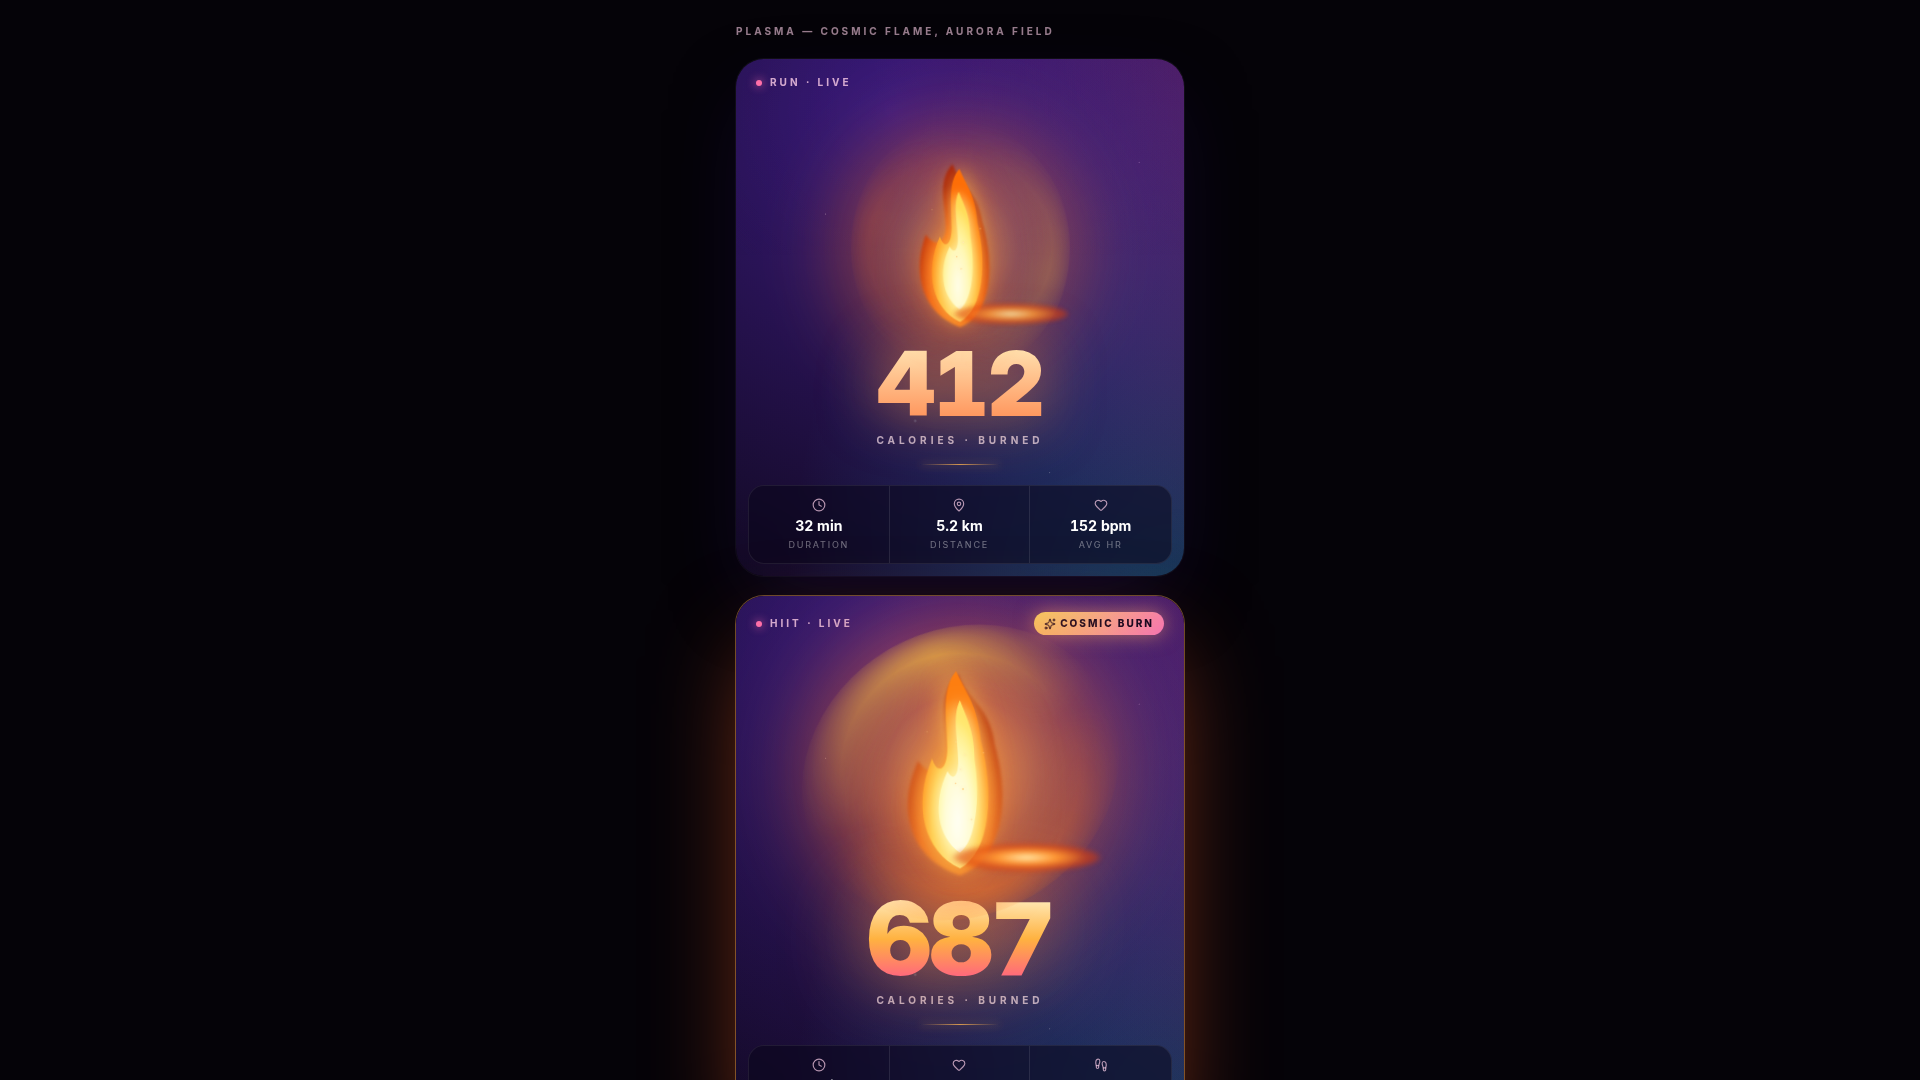
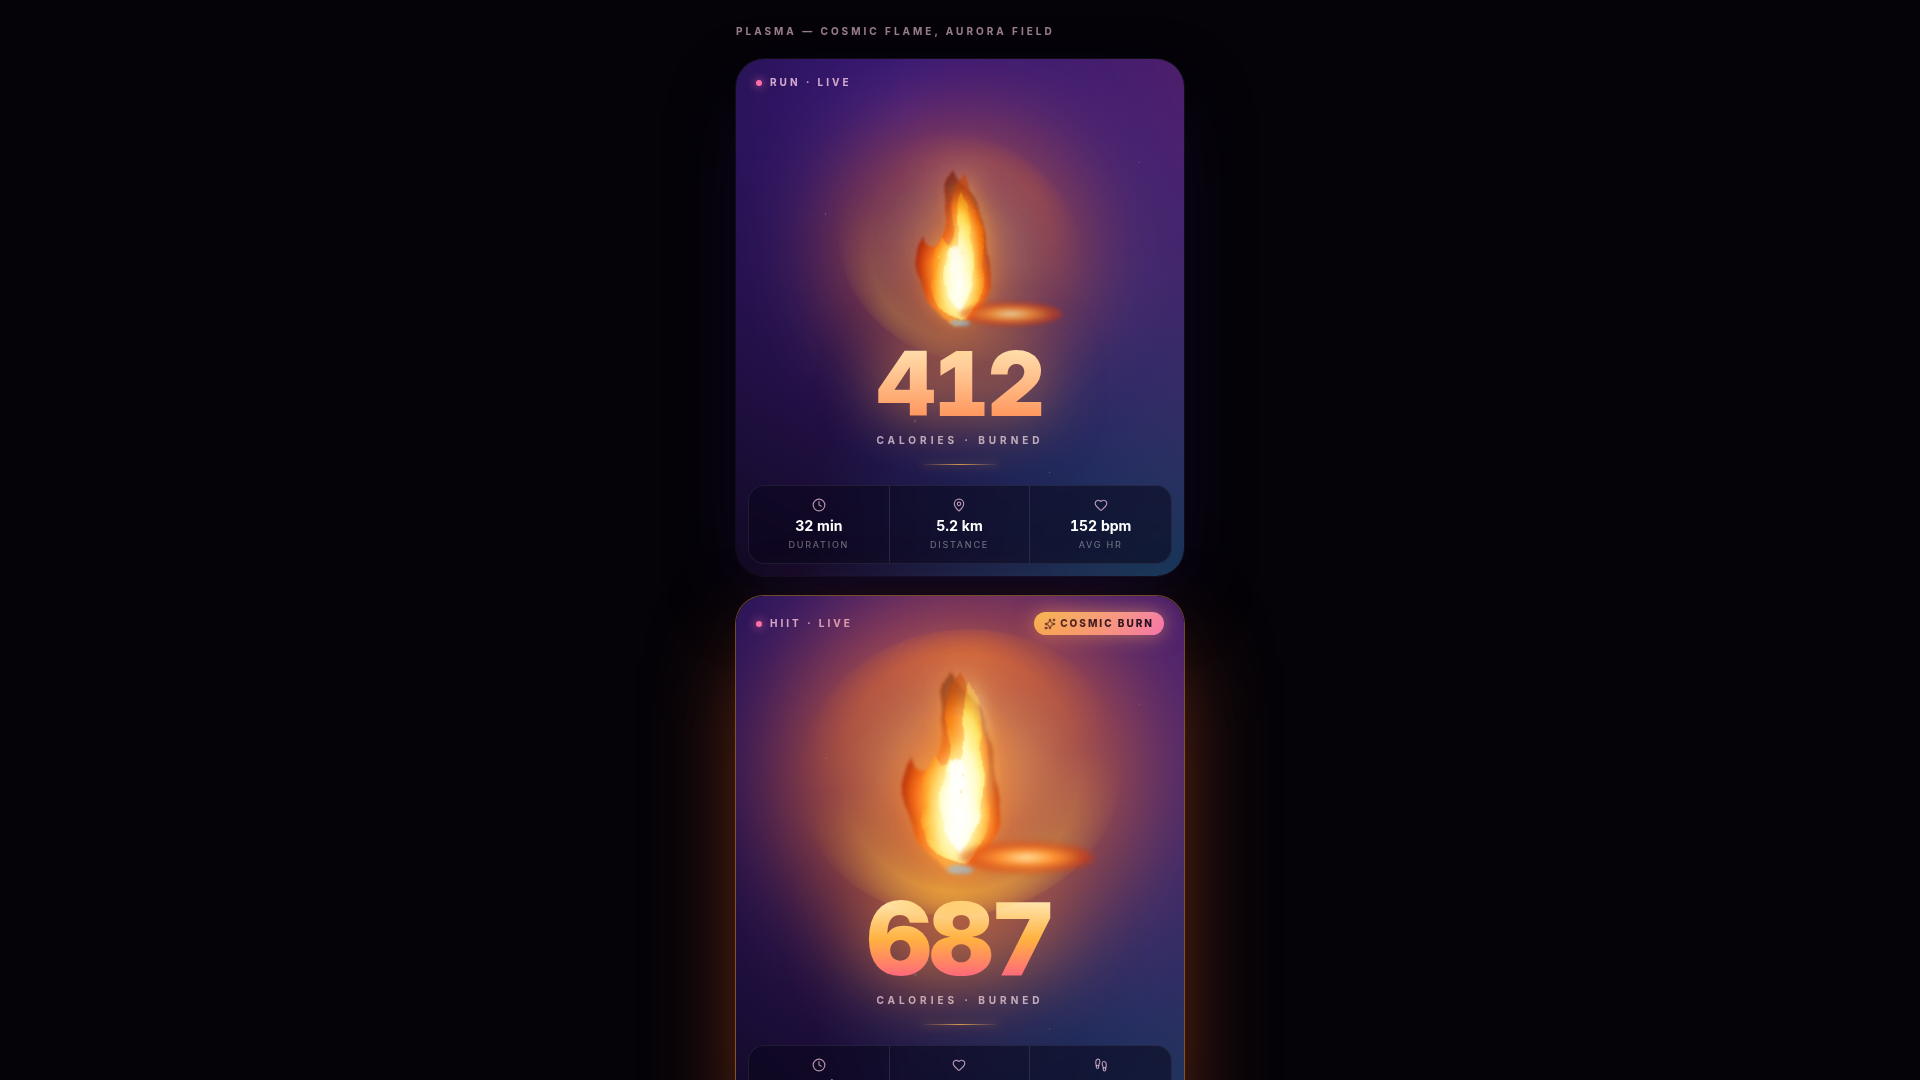
Improve flame visuals to be more 3D and photorealistic
Introduce SVG filters for dynamic flame warping, enhanced color gradients, and heat shimmer effects to create a more realistic and dimensional flame appearance.

Replit-Commit-Author: Agent
Replit-Commit-Session-Id: ebdcd18e-5cbb-4f8c-bdb8-f7f3cfcb31a1
Replit-Commit-Checkpoint-Type: full_checkpoint
Replit-Commit-Event-Id: 3739144c-6f43-4d2f-9039-6c4e80ef3750
Replit-Commit-Screenshot-Url: https://storage.googleapis.com/screenshot-production-us-central1/98486641-5e4c-4068-bb02-76442c3051c6/ebdcd18e-5cbb-4f8c-bdb8-f7f3cfcb31a1/8jfZt0N
Replit-Helium-Checkpoint-Created: true

Changed region(s): [[0.375, 0.55, 0.625, 0.8861], [0.4688, 0.1528, 0.5312, 0.2444], [0.4375, 0.275, 0.5, 0.3056]]

diff --git a/artifacts/mockup-sandbox/src/components/mockups/workout-cards/shared.tsx b/artifacts/mockup-sandbox/src/components/mockups/workout-cards/shared.tsx
@@ -1,4 +1,5 @@
 import "./_group.css";
+import { useId } from "react";
 import { Flame } from "lucide-react";
 
 export interface ParsedWorkout {
@@ -41,64 +42,183 @@ export function clampIntensity(workoutCals: number, top: number, leader?: boolea
   return Math.max(0.2, Math.min(1, r));
 }
 
-/* ===== Realistic flame =====
- *  Three independently-flickering SVG flame tongues + a pulsing ember bed,
- *  a soft glow halo, and a continuous spark stream. Each layer has its own
- *  color, shape and timing so the whole thing reads as actual fire. */
+/* ===== Photorealistic 3D flame =====
+ *  Built from three SVG flame tongues, each warped in real-time by an
+ *  animated `feTurbulence` + `feDisplacementMap` filter so the silhouette
+ *  organically morphs (instead of just scaling). Adds a darker
+ *  pre-combustion fuel pocket near the wick, a tiny blue base where
+ *  fuel meets oxygen, and a specular highlight on the molten core for a
+ *  3D "wet glow" feel. */
 
-/** A single flame-tongue path. The shapes are tuned to feel organic — wider
- *  ember-base, narrowing tip, with a small kink/lick on one shoulder. */
+interface TonguePalette {
+  /** Multi-stop radial gradient (cy near bottom). */
+  stops: { o: number; c: string; a?: number }[];
+  /** SVG path. */
+  d: string;
+  /** Displacement amplitude — how much the edges wobble. */
+  disp: number;
+  /** Turbulence frequency — higher = finer noise. */
+  freq: string;
+  /** Animation duration of the seed sweep. */
+  dur: string;
+  /** Octaves of fractal noise. */
+  octaves: number;
+}
+
+/** A single flame-tongue, warped by an animated turbulence filter. */
 function FlameTongue({
   variant,
   intensity,
+  idPrefix,
 }: {
   variant: "outer" | "mid" | "core";
   intensity: number;
+  idPrefix: string;
 }) {
-  // Color stops by layer (hot core gets nearly white; outer is deep red).
-  const palettes = {
+  // Photometric color stops. 5 stops give a smoother, more volumetric falloff
+  // than a hard 3-stop ramp. Hot center → cooler shoulders → dim deep red base.
+  const palettes: Record<"outer" | "mid" | "core", TonguePalette> = {
     outer: {
-      gradId: `ff-g-out-${intensity.toFixed(2)}`,
       stops: [
-        { o: 0,   c: `hsl(${28 + intensity * 8}, 100%, ${55 + intensity * 8}%)` },
-        { o: 0.55,c: `hsl(${18 + intensity * 5}, 95%,  ${48 + intensity * 6}%)` },
-        { o: 1,   c: `hsl(${5  + intensity * 5}, 95%,  ${30 + intensity * 5}%)` },
+        { o: 0,    c: `hsl(${36 + intensity * 6}, 100%, ${62 + intensity * 8}%)`, a: 0.95 },
+        { o: 0.30, c: `hsl(${24 + intensity * 6}, 100%, ${55 + intensity * 6}%)`, a: 0.95 },
+        { o: 0.55, c: `hsl(${14 + intensity * 5}, 95%,  ${44 + intensity * 6}%)`, a: 0.92 },
+        { o: 0.80, c: `hsl(${4  + intensity * 4}, 92%,  ${30 + intensity * 5}%)`, a: 0.85 },
+        { o: 1,    c: `hsl(${0  + intensity * 4}, 90%,  ${18 + intensity * 4}%)`, a: 0.7  },
       ],
-      // Big, full envelope.
       d: "M32 78 C 14 72, 8 54, 16 36 C 20 42, 26 40, 26 32 C 26 22, 22 12, 30 4 C 34 14, 42 16, 44 30 C 50 50, 48 72, 32 78 Z",
+      disp: 7 + intensity * 4,
+      freq: "0.018 0.045",
+      dur: "9s",
+      octaves: 2,
     },
     mid: {
-      gradId: `ff-g-mid-${intensity.toFixed(2)}`,
       stops: [
-        { o: 0,   c: `hsl(${48 + intensity * 8}, 100%, ${72 + intensity * 12}%)` },
-        { o: 0.55,c: `hsl(${36 + intensity * 8}, 100%, ${58 + intensity * 8}%)` },
-        { o: 1,   c: `hsl(${22 + intensity * 6}, 100%, ${48 + intensity * 5}%)` },
+        { o: 0,    c: `hsl(${56 + intensity * 6}, 100%, ${80 + intensity * 10}%)`, a: 1 },
+        { o: 0.30, c: `hsl(${46 + intensity * 6}, 100%, ${68 + intensity * 10}%)`, a: 1 },
+        { o: 0.55, c: `hsl(${36 + intensity * 6}, 100%, ${56 + intensity * 8}%)`,  a: 0.95 },
+        { o: 0.80, c: `hsl(${24 + intensity * 5}, 100%, ${46 + intensity * 6}%)`,  a: 0.85 },
+        { o: 1,    c: `hsl(${14 + intensity * 4}, 95%,  ${36 + intensity * 4}%)`,  a: 0.6  },
       ],
-      // Slightly narrower with a leftward lick.
       d: "M32 76 C 18 70, 14 54, 22 38 C 24 44, 28 42, 28 34 C 28 24, 26 14, 32 8 C 36 16, 40 20, 41 32 C 46 50, 44 70, 32 76 Z",
+      disp: 4 + intensity * 3,
+      freq: "0.028 0.07",
+      dur: "5.5s",
+      octaves: 2,
     },
     core: {
-      gradId: `ff-g-core-${intensity.toFixed(2)}`,
       stops: [
-        { o: 0,   c: `hsl(56, 100%, ${88 + intensity * 8}%)` },
-        { o: 0.5, c: `hsl(${50 + intensity * 6}, 100%, ${75 + intensity * 12}%)` },
-        { o: 1,   c: `hsl(${36 + intensity * 8}, 100%, ${60 + intensity * 8}%)` },
+        { o: 0,    c: `hsl(58, 100%, ${94 + intensity * 6}%)`, a: 1 },
+        { o: 0.25, c: `hsl(56, 100%, ${88 + intensity * 8}%)`, a: 1 },
+        { o: 0.55, c: `hsl(${50 + intensity * 4}, 100%, ${76 + intensity * 10}%)`, a: 0.97 },
+        { o: 0.85, c: `hsl(${40 + intensity * 6}, 100%, ${62 + intensity * 6}%)`,  a: 0.85 },
+        { o: 1,    c: `hsl(${30 + intensity * 6}, 100%, ${50 + intensity * 4}%)`,  a: 0.5  },
       ],
-      // Small, narrow, taller tongue.
       d: "M32 70 C 24 64, 22 52, 28 40 C 30 44, 32 42, 32 36 C 32 28, 30 20, 33 14 C 36 22, 38 26, 38 36 C 40 50, 38 66, 32 70 Z",
+      disp: 2 + intensity * 2,
+      freq: "0.04 0.09",
+      dur: "3.5s",
+      octaves: 2,
     },
   };
   const p = palettes[variant];
+  const gradId   = `${idPrefix}-grad-${variant}`;
+  const filterId = `${idPrefix}-fil-${variant}`;
+  const seedStart = variant === "outer" ? 1 : variant === "mid" ? 7 : 13;
+
   return (
-    <svg width="100%" height="100%" viewBox="0 0 64 80" fill="none" preserveAspectRatio="xMidYMax meet">
+    <svg
+      width="100%"
+      height="100%"
+      viewBox="0 0 64 80"
+      fill="none"
+      preserveAspectRatio="xMidYMax meet"
+    >
       <defs>
-        <radialGradient id={p.gradId} cx="50%" cy="78%" r="65%">
+        {/* Animated turbulence + displacement → organic edge bubbling.
+            The seed sweeps continuously so the noise pattern evolves
+            instead of looping crisply. */}
+        <filter id={filterId} x="-25%" y="-25%" width="150%" height="150%">
+          <feTurbulence
+            type="fractalNoise"
+            baseFrequency={p.freq}
+            numOctaves={p.octaves}
+            seed={seedStart}
+            result="noise"
+          >
+            <animate
+              attributeName="seed"
+              from={seedStart}
+              to={seedStart + 90}
+              dur={p.dur}
+              repeatCount="indefinite"
+            />
+          </feTurbulence>
+          <feDisplacementMap
+            in="SourceGraphic"
+            in2="noise"
+            scale={p.disp}
+            xChannelSelector="R"
+            yChannelSelector="G"
+          />
+        </filter>
+
+        <radialGradient id={gradId} cx="50%" cy="78%" r="68%">
           {p.stops.map((s, i) => (
-            <stop key={i} offset={`${s.o * 100}%`} stopColor={s.c} />
+            <stop
+              key={i}
+              offset={`${s.o * 100}%`}
+              stopColor={s.c}
+              stopOpacity={s.a ?? 1}
+            />
           ))}
         </radialGradient>
       </defs>
-      <path d={p.d} fill={`url(#${p.gradId})`} />
+
+      <g filter={`url(#${filterId})`}>
+        <path d={p.d} fill={`url(#${gradId})`} />
+
+        {/* Specular highlight on the hot core — fakes 3D molten depth.
+            Lives inside the displaced group so it warps with the flame. */}
+        {variant === "core" && (
+          <ellipse
+            cx="30"
+            cy="46"
+            rx="2.6"
+            ry="6"
+            fill="white"
+            opacity={0.45 + intensity * 0.35}
+          />
+        )}
+
+        {/* Pre-combustion "fuel pocket" — slightly darker zone in the lower
+            interior of the outer envelope, the way real torch flames have a
+            shadow above the wick. */}
+        {variant === "outer" && (
+          <ellipse
+            cx="32"
+            cy="62"
+            rx="6"
+            ry="9"
+            fill="black"
+            opacity={0.18 + intensity * 0.1}
+          />
+        )}
+      </g>
+
+      {/* Tiny cool-blue accent at the very wick where fuel meets oxygen.
+          Rendered OUTSIDE the displacement filter so it stays anchored. */}
+      {variant === "outer" && (
+        <ellipse
+          cx="32"
+          cy="76"
+          rx="5"
+          ry="1.6"
+          fill={`hsl(${200 + intensity * 10}, 95%, ${65 + intensity * 10}%)`}
+          opacity={0.55 + intensity * 0.25}
+          style={{ filter: "blur(0.6px)" }}
+        />
+      )}
     </svg>
   );
 }
@@ -124,6 +244,10 @@ export function AnimatedFlame({
   // Render at a 4:5 aspect so the flame has natural vertical proportion.
   const w = size;
   const h = Math.round(size * 1.15);
+  // Stable per-instance ID prefix so each flame's filters/gradients don't
+  // collide across cards on the same page.
+  const rawId = useId();
+  const idPrefix = `ff${rawId.replace(/[^a-zA-Z0-9]/g, "")}`;
 
   // Spawn 6 sparks + 4 embers with varied lateral drift and delay so the
   // stream feels random rather than periodic.
@@ -154,14 +278,18 @@ export function AnimatedFlame({
       <span className="ff-ember-base" />
 
       <span className="ff-flame-layer ff-flame-outer">
-        <FlameTongue variant="outer" intensity={intensity} />
+        <FlameTongue variant="outer" intensity={intensity} idPrefix={idPrefix} />
       </span>
       <span className="ff-flame-layer ff-flame-mid">
-        <FlameTongue variant="mid" intensity={intensity} />
+        <FlameTongue variant="mid" intensity={intensity} idPrefix={idPrefix} />
       </span>
       <span className="ff-flame-layer ff-flame-core">
-        <FlameTongue variant="core" intensity={intensity} />
+        <FlameTongue variant="core" intensity={intensity} idPrefix={idPrefix} />
       </span>
+
+      {/* Heat shimmer band that floats above the flame tip — fakes the
+          refractive air-distortion you see above real fire. */}
+      <span className="ff-heat-shimmer" />
 
       {showSparks && intensity > 0.35 && sparks.map((s, i) => (
         <span
@@ -190,7 +318,7 @@ export function AnimatedFlame({
 }
 
 /** Back-compat re-export so other files that still call FlameSvg directly
- *  keep working — renders the mid tongue as a static SVG. */
+ *  keep working — renders the mid tongue as a single warped SVG. */
 export function FlameSvg({
   size = 48,
   intensity = 0.5,
@@ -199,9 +327,11 @@ export function FlameSvg({
   intensity?: number;
   variant?: "front" | "back";
 }) {
+  const rawId = useId();
+  const idPrefix = `ff${rawId.replace(/[^a-zA-Z0-9]/g, "")}`;
   return (
     <span style={{ display: "inline-block", width: size, height: size }}>
-      <FlameTongue variant="mid" intensity={intensity} />
+      <FlameTongue variant="mid" intensity={intensity} idPrefix={idPrefix} />
     </span>
   );
 }

diff --git a/artifacts/mockup-sandbox/src/components/mockups/workout-cards/_group.css b/artifacts/mockup-sandbox/src/components/mockups/workout-cards/_group.css
@@ -106,6 +106,15 @@
   to { transform: rotate(360deg); }
 }
 
+/* Heat shimmer — a soft warm band that floats above the flame tip and
+   subtly skews/translates to mimic the air-distortion seen above real fire. */
+@keyframes ff-heat-shimmer {
+  0%, 100% { transform: translate(-50%, 0)    skewX(-3deg); opacity: .25; }
+  25%      { transform: translate(-48%, -2px) skewX( 4deg); opacity: .45; }
+  50%      { transform: translate(-52%, -4px) skewX(-5deg); opacity: .35; }
+  75%      { transform: translate(-49%, -2px) skewX( 3deg); opacity: .5;  }
+}
+
 @keyframes ff-scanline {
   0%   { transform: translateY(-100%); opacity: 0; }
   20%  { opacity: 0.6; }
@@ -178,6 +187,26 @@
   filter: blur(calc(1px + var(--ff-intensity, 0.5) * 2px));
   animation: ff-ember-pulse calc(.9s - var(--ff-intensity, 0.5) * 0.3s) ease-in-out infinite;
   z-index: 5;
+}
+
+/* Heat shimmer band — sits above the flame tip, slightly warm-tinted, blurry. */
+.ff-heat-shimmer {
+  position: absolute;
+  left: 50%;
+  top: -8%;
+  transform: translateX(-50%);
+  width: 55%;
+  height: 28%;
+  border-radius: 50%;
+  pointer-events: none;
+  background: radial-gradient(ellipse at center,
+    rgba(255, 200, 120, calc(0.18 + var(--ff-intensity, 0.5) * 0.18)) 0%,
+    rgba(255, 150, 70,  calc(0.10 + var(--ff-intensity, 0.5) * 0.12)) 50%,
+    transparent 80%);
+  filter: blur(calc(6px + var(--ff-intensity, 0.5) * 8px));
+  mix-blend-mode: screen;
+  animation: ff-heat-shimmer calc(2.2s - var(--ff-intensity, 0.5) * 0.6s) ease-in-out infinite;
+  z-index: 7;
 }
 
 .ff-flame-glow {